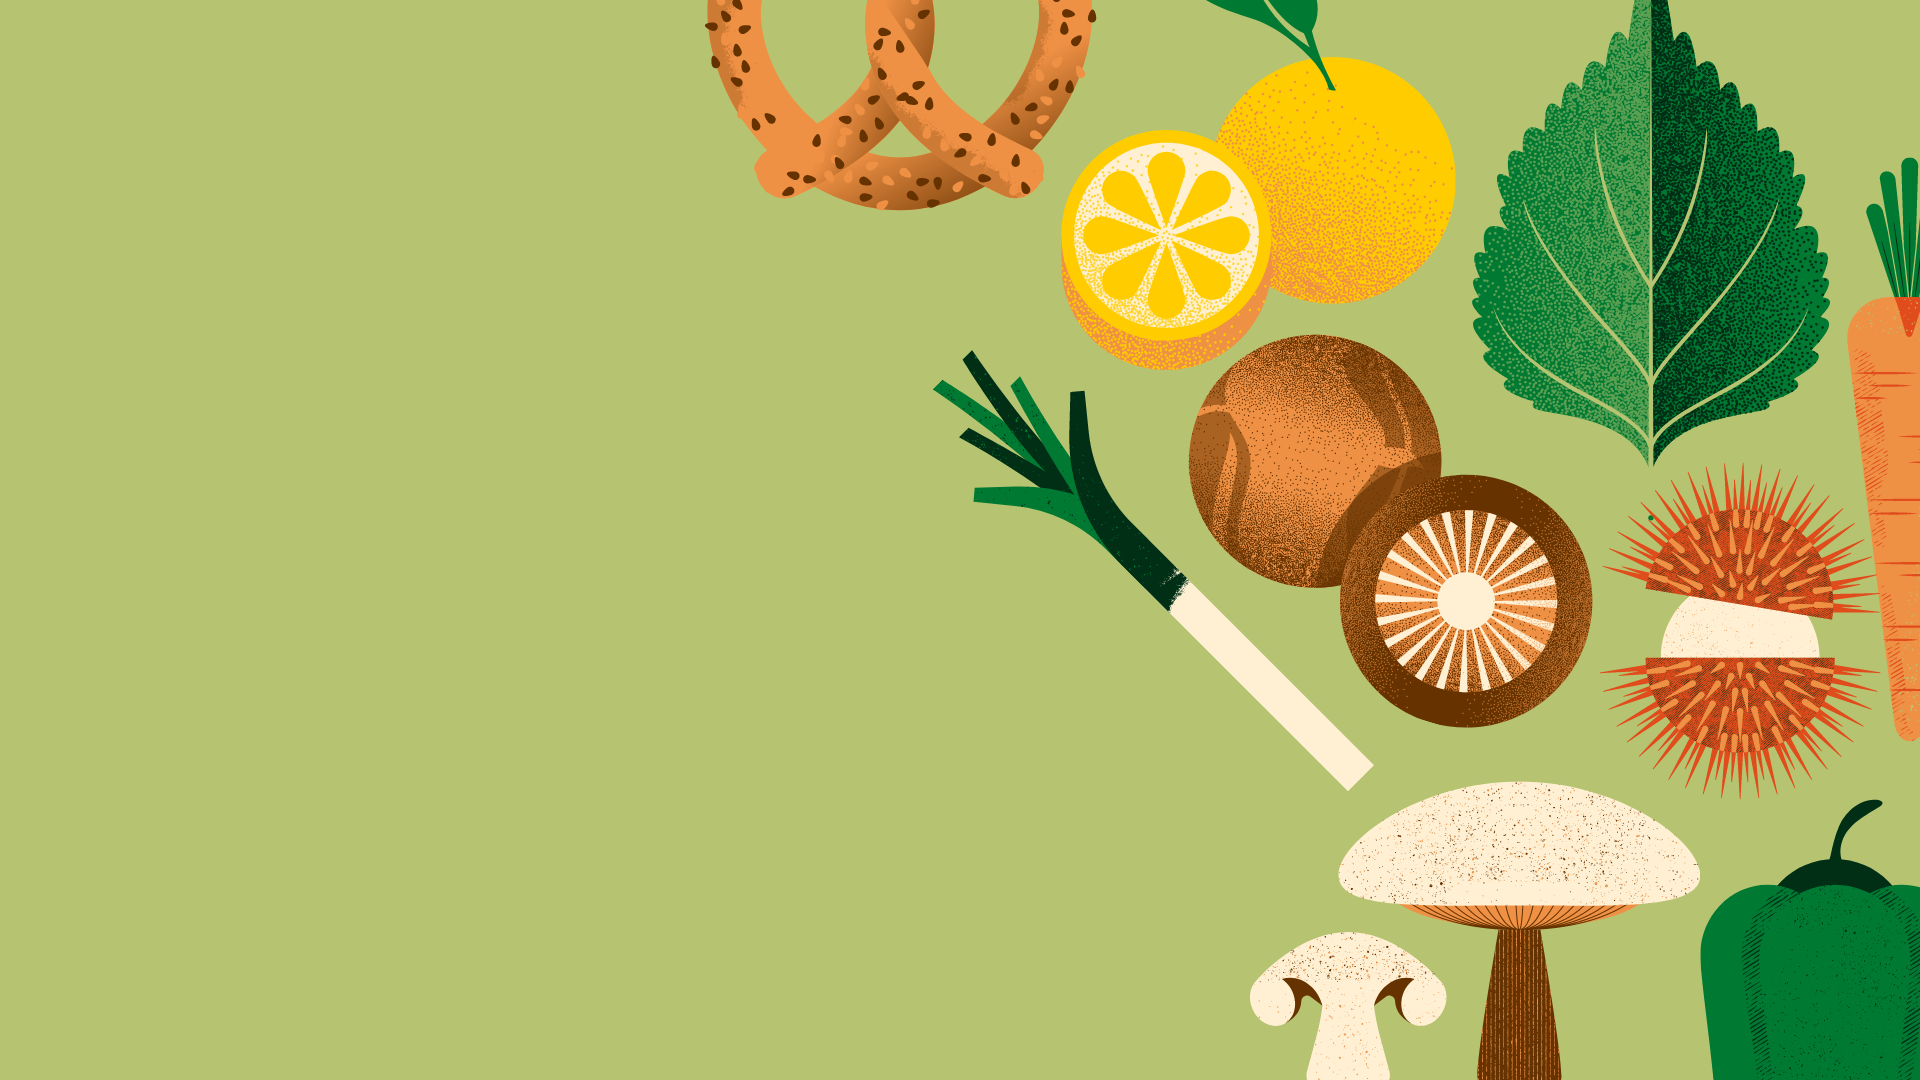
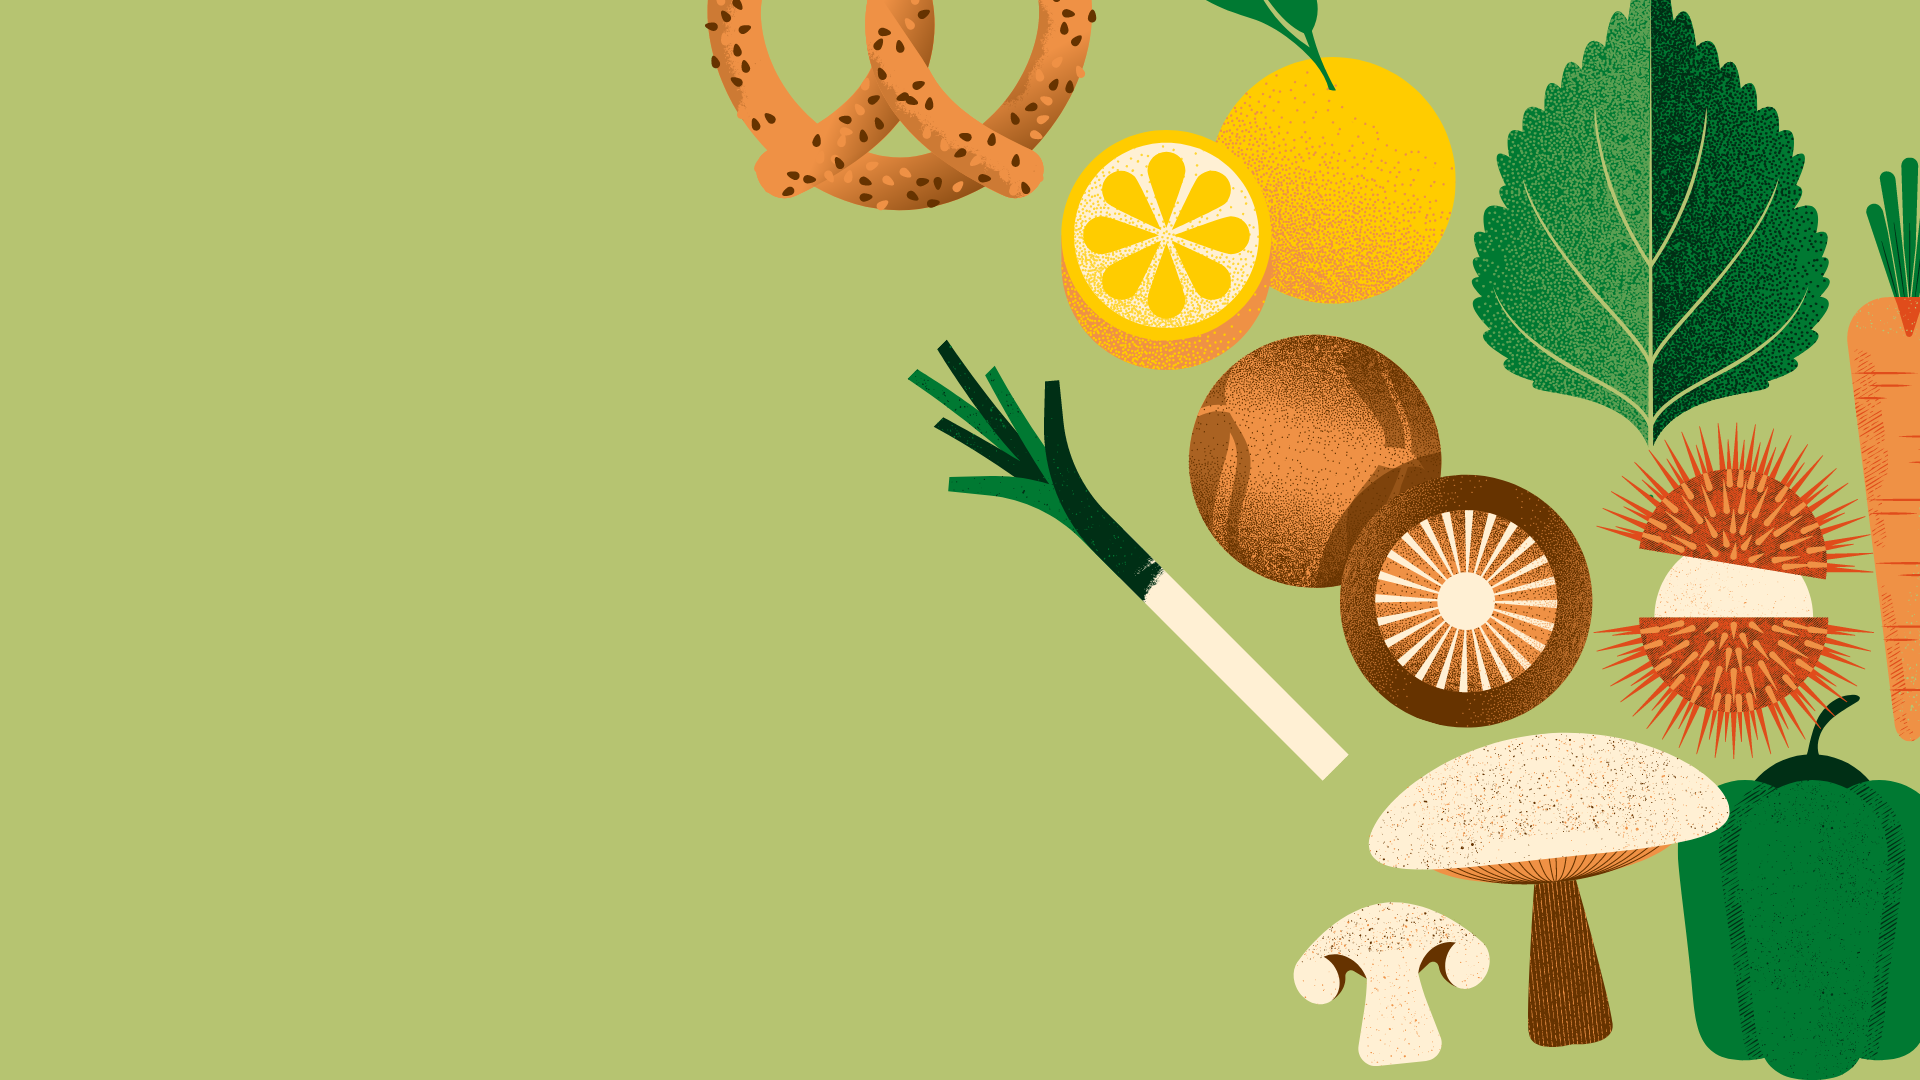
fixed background

Changed region(s): [[0.4688, 0.0, 1.0, 1.0]]

diff --git a/src/main/resources/static/griddesign.css b/src/main/resources/static/griddesign.css
@@ -9,11 +9,12 @@ body {
 
 }
 .bg{
-    background-image: url("background.png");
+    background-image: url("/images/background.png");
     height: 100%;
     background-position: center;
     background-repeat: no-repeat;
     background-size: cover;
+    background-color: #b6c471;
 }
 
 /* Style the header */

diff --git a/src/main/java/dk/jwillum/websitedemo/controller/MainController.java b/src/main/java/dk/jwillum/websitedemo/controller/MainController.java
@@ -37,9 +37,9 @@ public class MainController {
     return "shop";
   }
 
-  @GetMapping("/gallery")
+  @GetMapping("/fakta")
   public String gallerySite() {
-    return "gallery";
+    return "fakta";
   }
 
   @GetMapping("/events")
